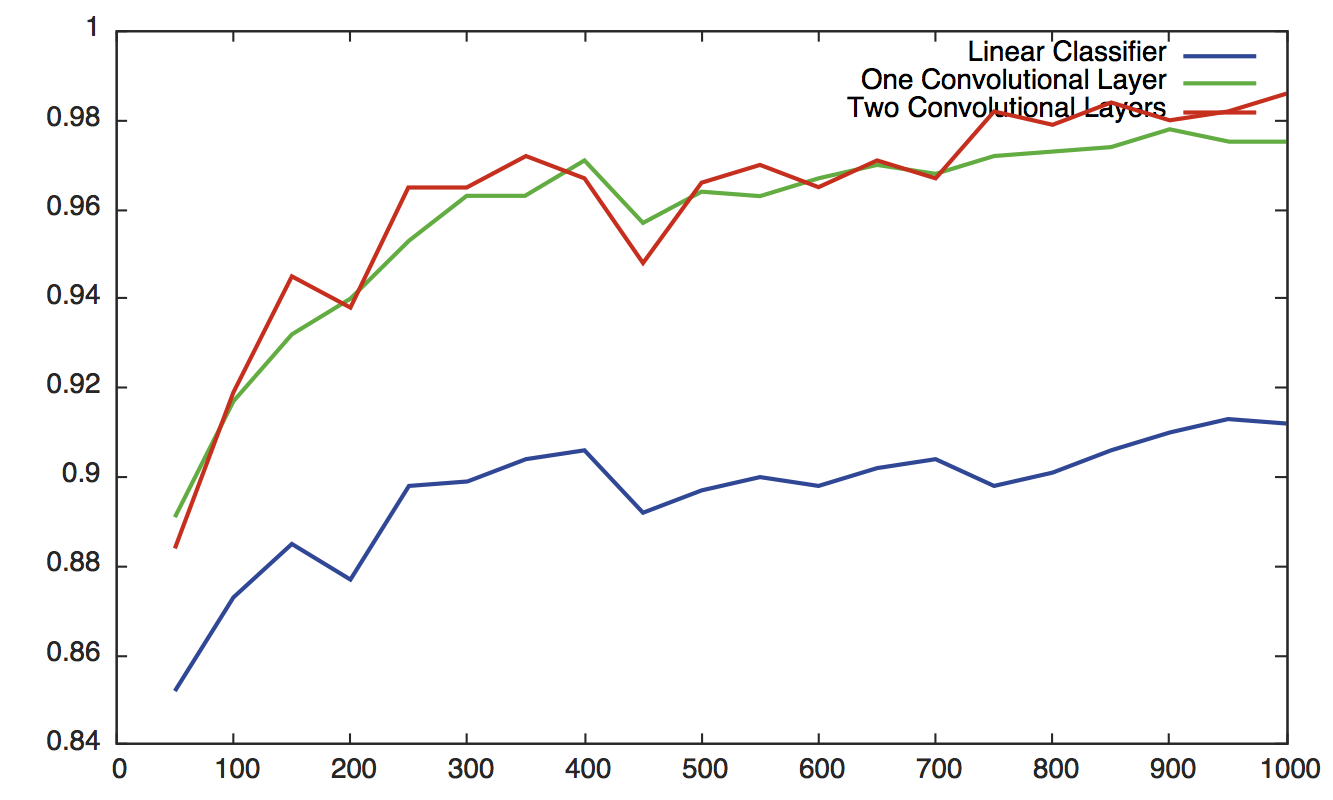
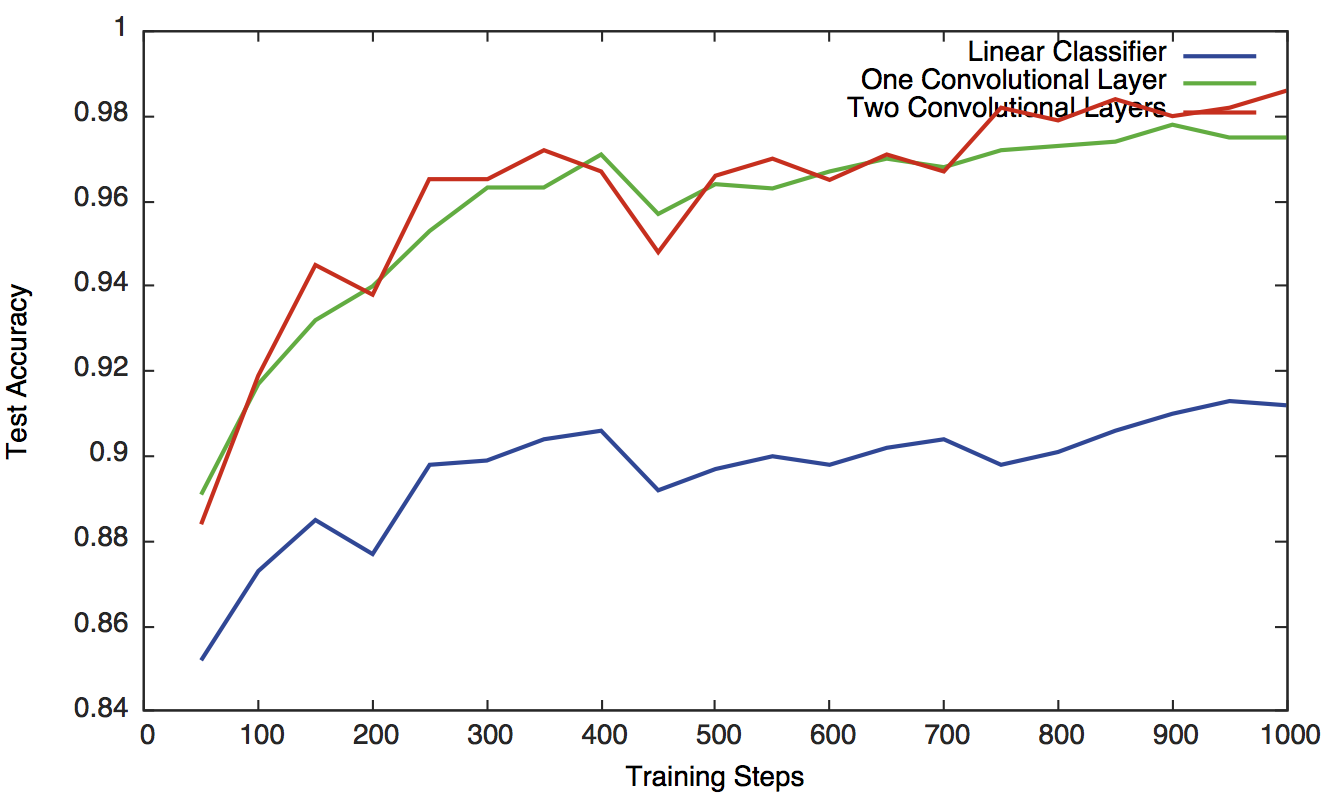
change learning curve plot

diff --git a/README.md b/README.md
@@ -96,6 +96,8 @@ The output of training and testing linear classifier
 ```
 To plot the learning curve
 ```lua
+require 'gnuplot'
+x = {}
 for i = 50, 1000, 50 do
     table.insert(x, i)
 end
@@ -112,6 +114,8 @@ x = torch.Tensor(x)
 y0 = torch.Tensor(y0)
 y1 = torch.Tensor(y1)
 y2 = torch.Tensor(y2)
+gnuplot.xlabel('Training Steps')
+gnuplot.ylabel('Test Accuracy')
 gnuplot.plot({'Linear Classifier', x, y0, '-'}, {'One Convolutional Layer', x,
     y1, '-'}, {'Two Convolutional Layers', x, y2, '-'})
 ```
